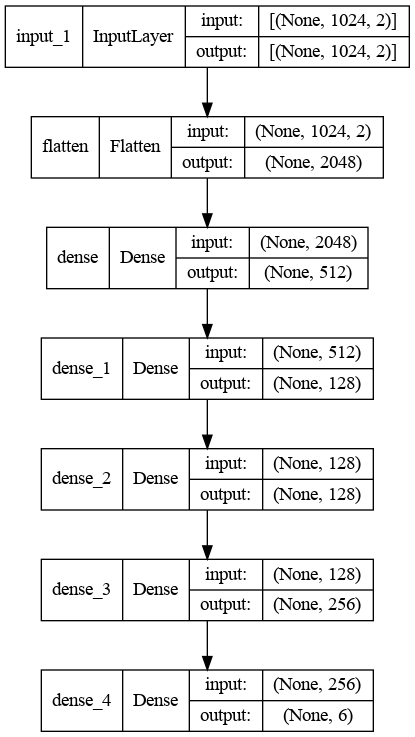
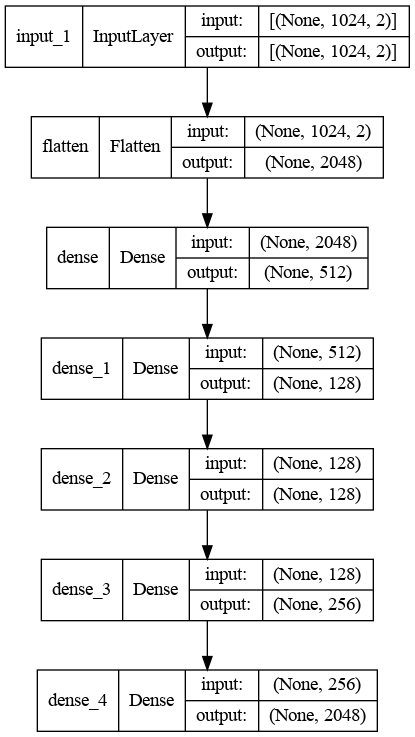
added data generator file

Changed region(s): [[0.0867, 0.905, 0.9253, 0.9986]]

diff --git a/main_test_generative.py b/main_test_generative.py
@@ -1,18 +1,20 @@
-from pickletools import optimize
+import os
+os.environ["CUDA_VISIBLE_DEVICES"] = "1"
 from data import DataGenerator
 from nnet_gen import Generative_Model
 from params import Params
 import numpy as np
 import matplotlib.pyplot as plt
 from tensorflow import keras
+import time
+
+start_time = time.time()
 
 T = 200
 N = 2**10
 
-params = Params(N=N,nz=500,T=T,number_symbols=3)
-dg = DataGenerator(N=N,T=T,number_symbols=3)
-
-
+params = Params(N=N,nz=500,T=T,number_symbols=32)
+dg = DataGenerator(N=N,T=T,number_symbols=32)
 
 dg.source()
 dg.bit_to_symb()
@@ -36,37 +38,38 @@ y = NNET_GEN.nnet_generator(x=x)
 
 print(np.sum(np.abs(y)**2))
 
-plt.figure(figsize=(20,10))
+# plt.figure(figsize=(20,10))
 
-plt.xlabel(r'time')
-plt.ylabel(r'| . |')
-plt.plot(params.t,np.abs(x),color='black',label=r'$|q(t,0)|$',lw=7)
-plt.plot(params.t,np.abs(y),color='red',label=r'$|q(t,L)|$',lw=3)
+# plt.xlabel(r'time')
+# plt.ylabel(r'| . |')
+# plt.plot(params.t,np.abs(x),color='black',label=r'$|q(t,0)|$',lw=7)
+# plt.plot(params.t,np.abs(y),color='red',label=r'$|q(t,L)|$',lw=3)
 
-plt.legend()
-plt.savefig('plots/q0t_vs_qLt_generaive_model.png')
+# plt.legend()
+# plt.savefig('plots/q0t_vs_qLt_generaive_model.png')
 
-plt.clf()
+# plt.clf()
 
 q0f = np.fft.fftshift(np.fft.fft(x))
 
 yf = np.fft.fftshift(np.fft.fft(y))
 
-plt.figure(figsize=(20,10))
+# plt.figure(figsize=(20,10))
 
-plt.xlabel(r'frequency')
-plt.ylabel(r'| . |')
-plt.plot(params.f,np.abs(q0f),color='black',label=r'$|q(t,0)|$',lw=7)
-plt.plot(params.f,np.abs(yf),color='red',label=r'$|q(t,L)|$',lw=3)
+# plt.xlabel(r'frequency')
+# plt.ylabel(r'| . |')
+# plt.plot(params.f,np.abs(q0f),color='black',label=r'$|q(t,0)|$',lw=7)
+# plt.plot(params.f,np.abs(yf),color='red',label=r'$|q(t,L)|$',lw=3)
 
-plt.legend()
-plt.savefig('plots/q0f_vs_qLf_generaive_model.png')
-
+# plt.legend()
+# plt.savefig('plots/q0f_vs_qLf_generaive_model.png')
 
 # print(np.sum(np.abs(y)**2))
 
 # calculate BER
-exit()
+
+print("time : ",time.time() - start_time)
+
 y = np.asarray([[y[i].real , y[i].imag] for i in range(len(y))])
 
 print(y.shape)
@@ -79,19 +82,20 @@ x = keras.layers.Dense(units=2**7,activation='tanh')(x)
 x = keras.layers.Dense(units=2**7,activation='tanh')(x)
 
 x = keras.layers.Dense(units=2**8,activation='tanh')(x)
-output_layer = keras.layers.Dense(units=dg.number_symbols*2,activation='linear')(x)
+# output_layer = keras.layers.Dense(units=dg.number_symbols*2,activation='linear')(x)
+output_layer = keras.layers.Dense(units=N*2,activation='linear')(x)
 
 my_model = keras.models.Model(inputs=input_layer,outputs=output_layer)
 
 my_loss = keras.losses.MeanSquaredError()
 
-my_optimizer = keras.optimizers.SGD(lr=0.1)
+my_optimizer = keras.optimizers.SGD(lr=0.5)
 
 my_model.compile(loss=my_loss,optimizer=my_optimizer)
 
 my_model.summary()
 
-keras.utils.plot_model(my_model,'my_model.png',show_shapes=True)
+# keras.utils.plot_model(my_model,'my_model.png',show_shapes=True)
 
 y.shape = (1,-1,2)
 # y.shape = (1,-1)
@@ -99,18 +103,33 @@ y.shape = (1,-1,2)
 
 s_label_1d = s_label.flatten()
 
+q0t_flatten = np.asarray([[dg.q0t[i].real , dg.q0t[i].imag] for i in range(len(dg.q0t))]).flatten()
 
-history = my_model.fit(x=y,y=s_label_1d.reshape(1,-1),epochs=1000,batch_size=1,verbose=True)
+
+history = my_model.fit(x=y,y=q0t_flatten.reshape(1,-1),epochs=1000,batch_size=1,verbose=True)
 
 loss = history.history['loss']
 
-plt.clf()
 
 plt.plot(loss,color='blue',label='training_loss',lw=3)
 plt.legend()
 plt.savefig('loss.png')
 
 ypred = my_model.predict(y)
+
+print(ypred.shape)
+
+ypred = np.asarray([complex(ypred[0,i],ypred[0,i+1]) for i in range(0,2*N,2)])
+
+
+plt.clf()
+plt.figure(figsize=(20,10))
+
+plt.plot(dg.t,np.abs(dg.q0t),color="black",lw=5,label="q0t")
+plt.plot(dg.t,np.abs(ypred),color='red',lw=3,label='q0tprime')
+plt.legend()
+plt.savefig('/app/comparaison.png')
+exit()
 
 i = np.random.randint(low=0,high=100)
 

diff --git a/generate_data_finaly.py b/generate_data_finaly.py
@@ -1,0 +1,45 @@
+import numpy as np
+from data import DataGenerator
+from nnet_gen import Generative_Model
+from params import Params
+
+import time
+
+start_time = time.time()
+
+dg = DataGenerator(T=200,N=2**10,number_symbols=32)
+
+params = Params(N=2**10,T=200,number_symbols=32,nz=500)
+nnet_gen = Generative_Model(params=params)
+
+n_samples = 1000
+
+feature_vectors = []
+labels = []
+
+for i in range(n_samples):
+    
+    dg.source()
+    dg.bit_to_symb()
+    dg.mod()
+    
+    x = dg.q0t
+    
+    x_flatten = np.asarray([[x[i].real , x[i].imag] for i in range(len(x))]).flatten()
+    
+    labels.append(x_flatten)
+    
+    y = nnet_gen.nnet_generator(x=x)   
+    
+    y_2d = np.asarray([[y[i].real , y[i].imag] for i in range(len(y))])
+    
+    feature_vectors.append(y_2d)
+
+feature_vectors = np.asarray(feature_vectors)
+labels = np.asarray(labels)
+
+print(time.time() - start_time)
+
+print(feature_vectors.shape)
+print(labels.shape)
+

diff --git a/data.py b/data.py
@@ -21,14 +21,12 @@ class DataGenerator:
         self.f0 = self.c / self.lambda0
         self.alpha = 1e-4 * log2(10) * self.power_loss_db
         self.beta2 = - (self.lambda0**2 / (2 * pi * self.c)) * self.dispersion
-        print("beta2 : ",self.beta2)
         self.L0 = self.Length
         self.T0 = sqrt(abs(self.beta2)*self.L0 / 2)
         self.P0 = 2 / (self.Gamma * self.L0)
         
         self.Bandwith_n = self.Bandwith * self.T0
         
-        print(self.Bandwith_n)
         
         self.sigma02 = self.nsp * self.h * self.alpha * self.f0
         self.sigma2 = (self.sigma02 * self.L0) / (self.P0 * self.T0)
@@ -164,7 +162,7 @@ class DataGenerator:
         
         self.q0t = np.sum(self.q0t_list,axis=0)
         
-        self.q0t_FFT = scipy.fft.fft(self.q0t)   
+        self.q0t_FFT = np.fft.fft(self.q0t)   
         
         
     def plot_q0t(self):
